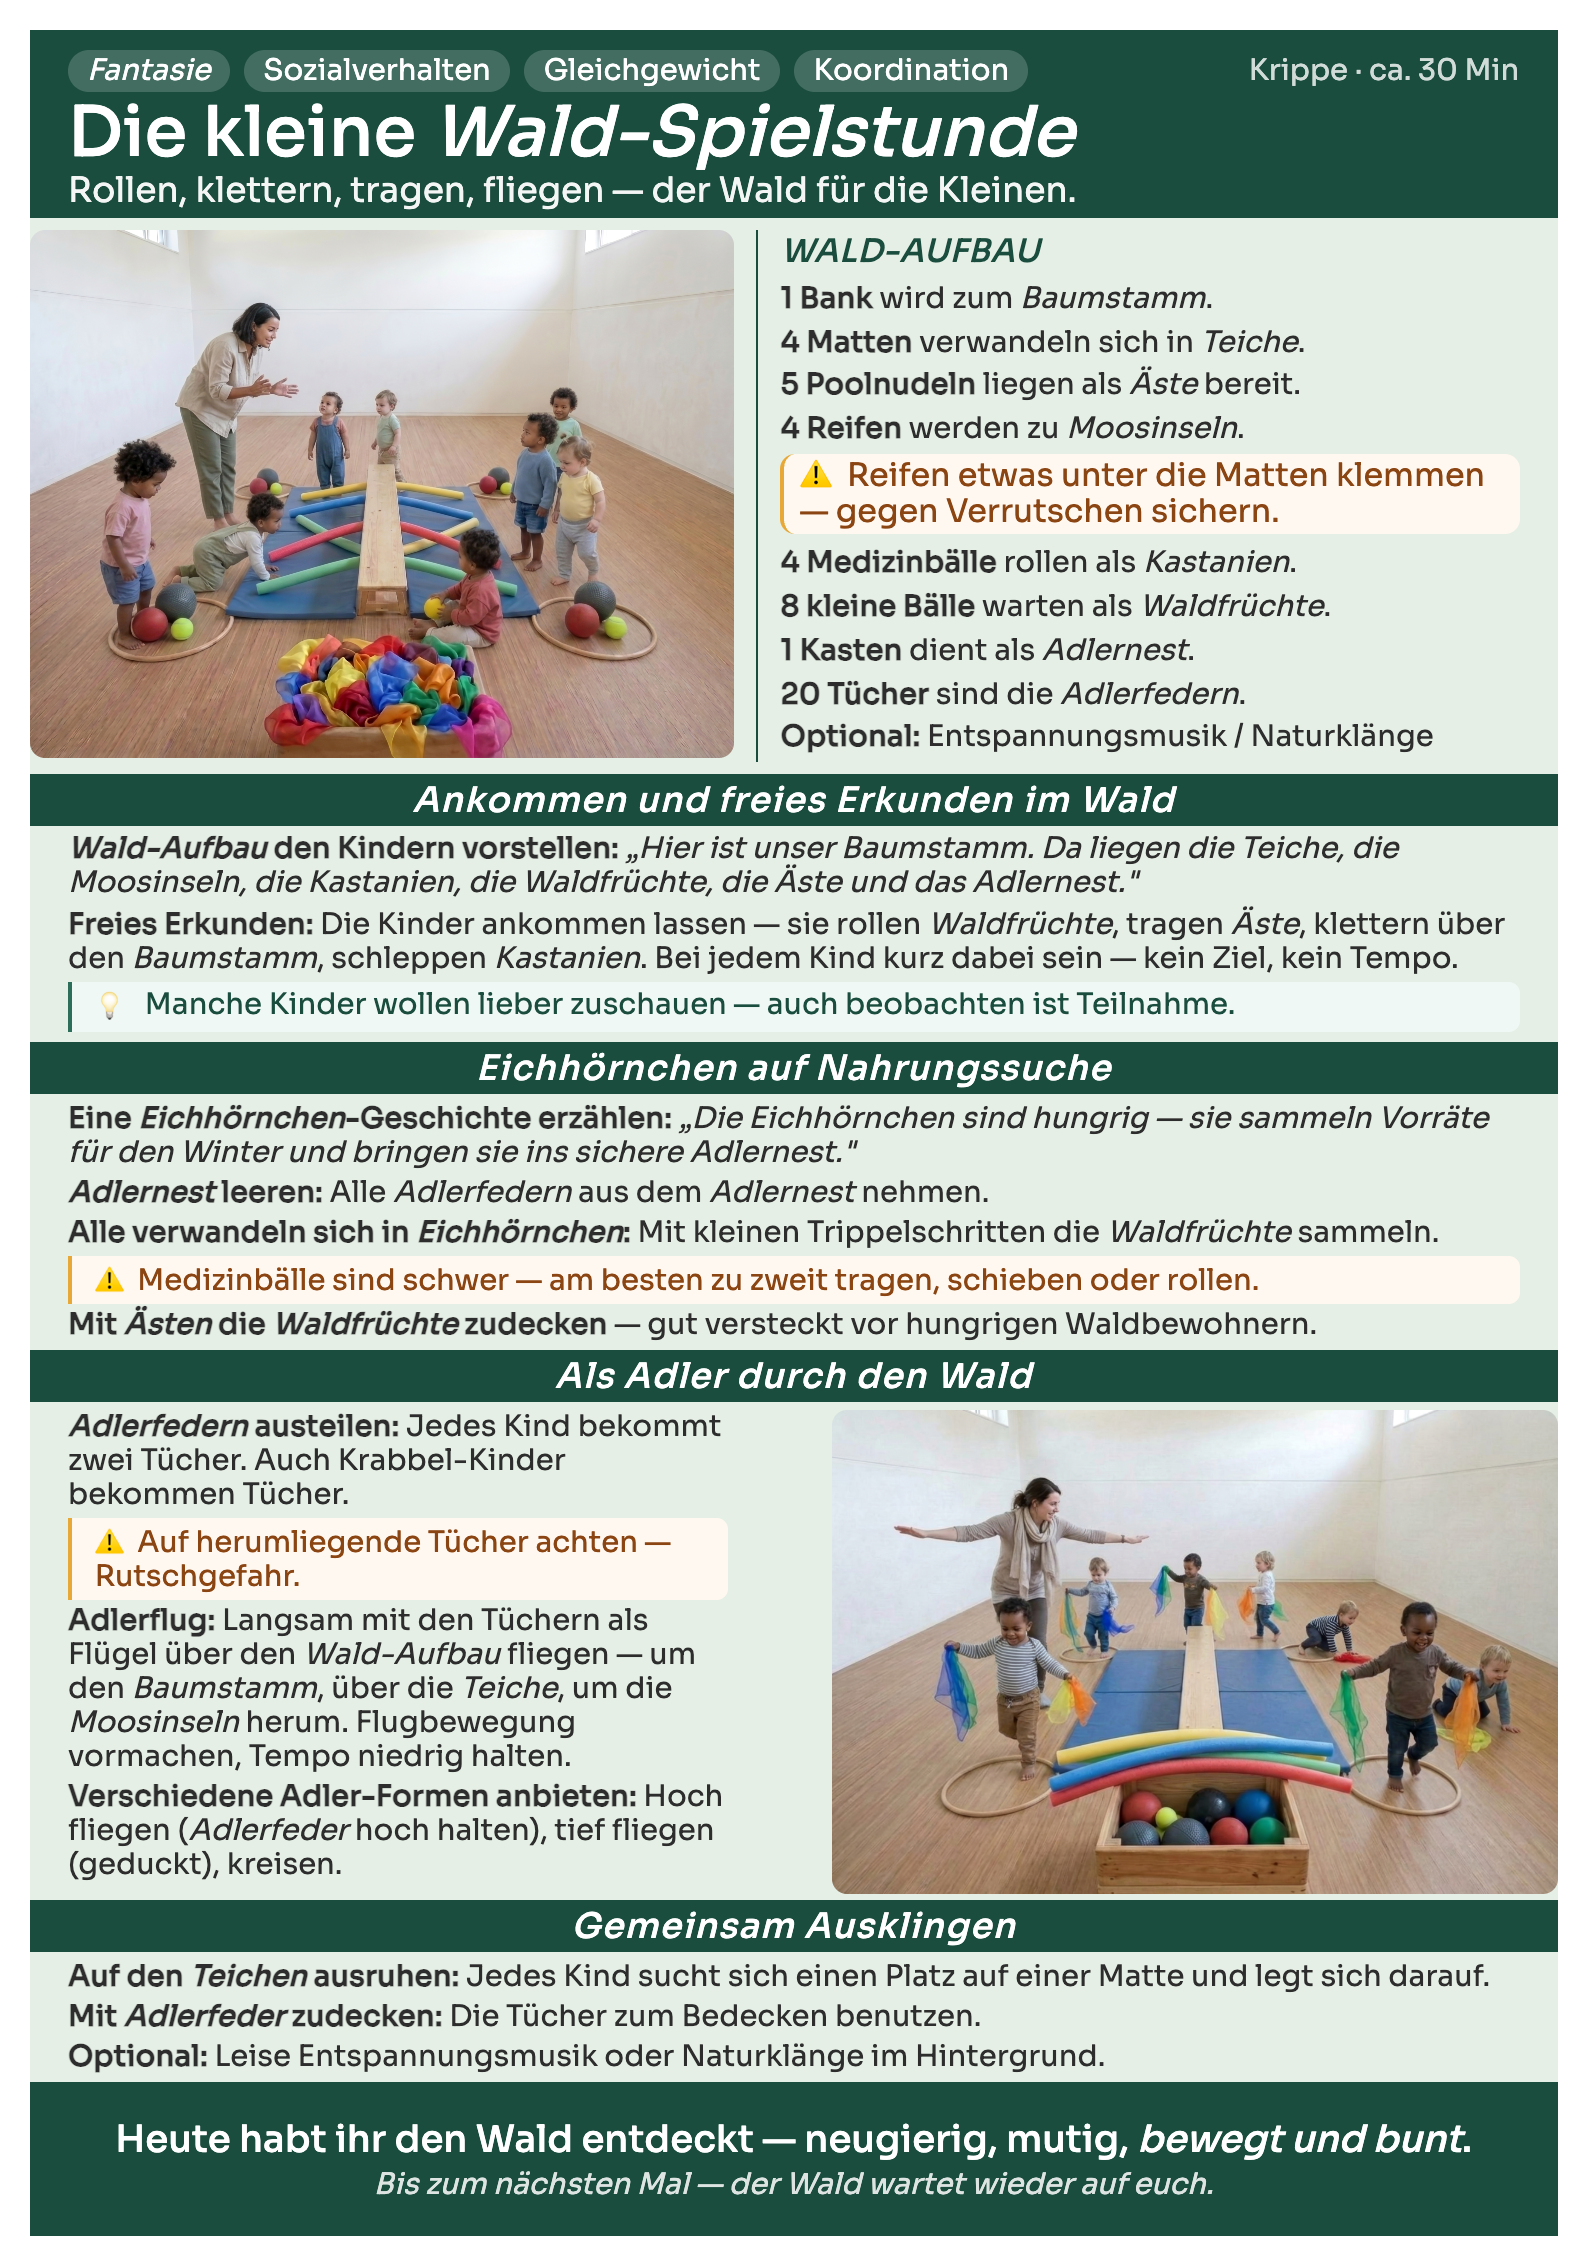
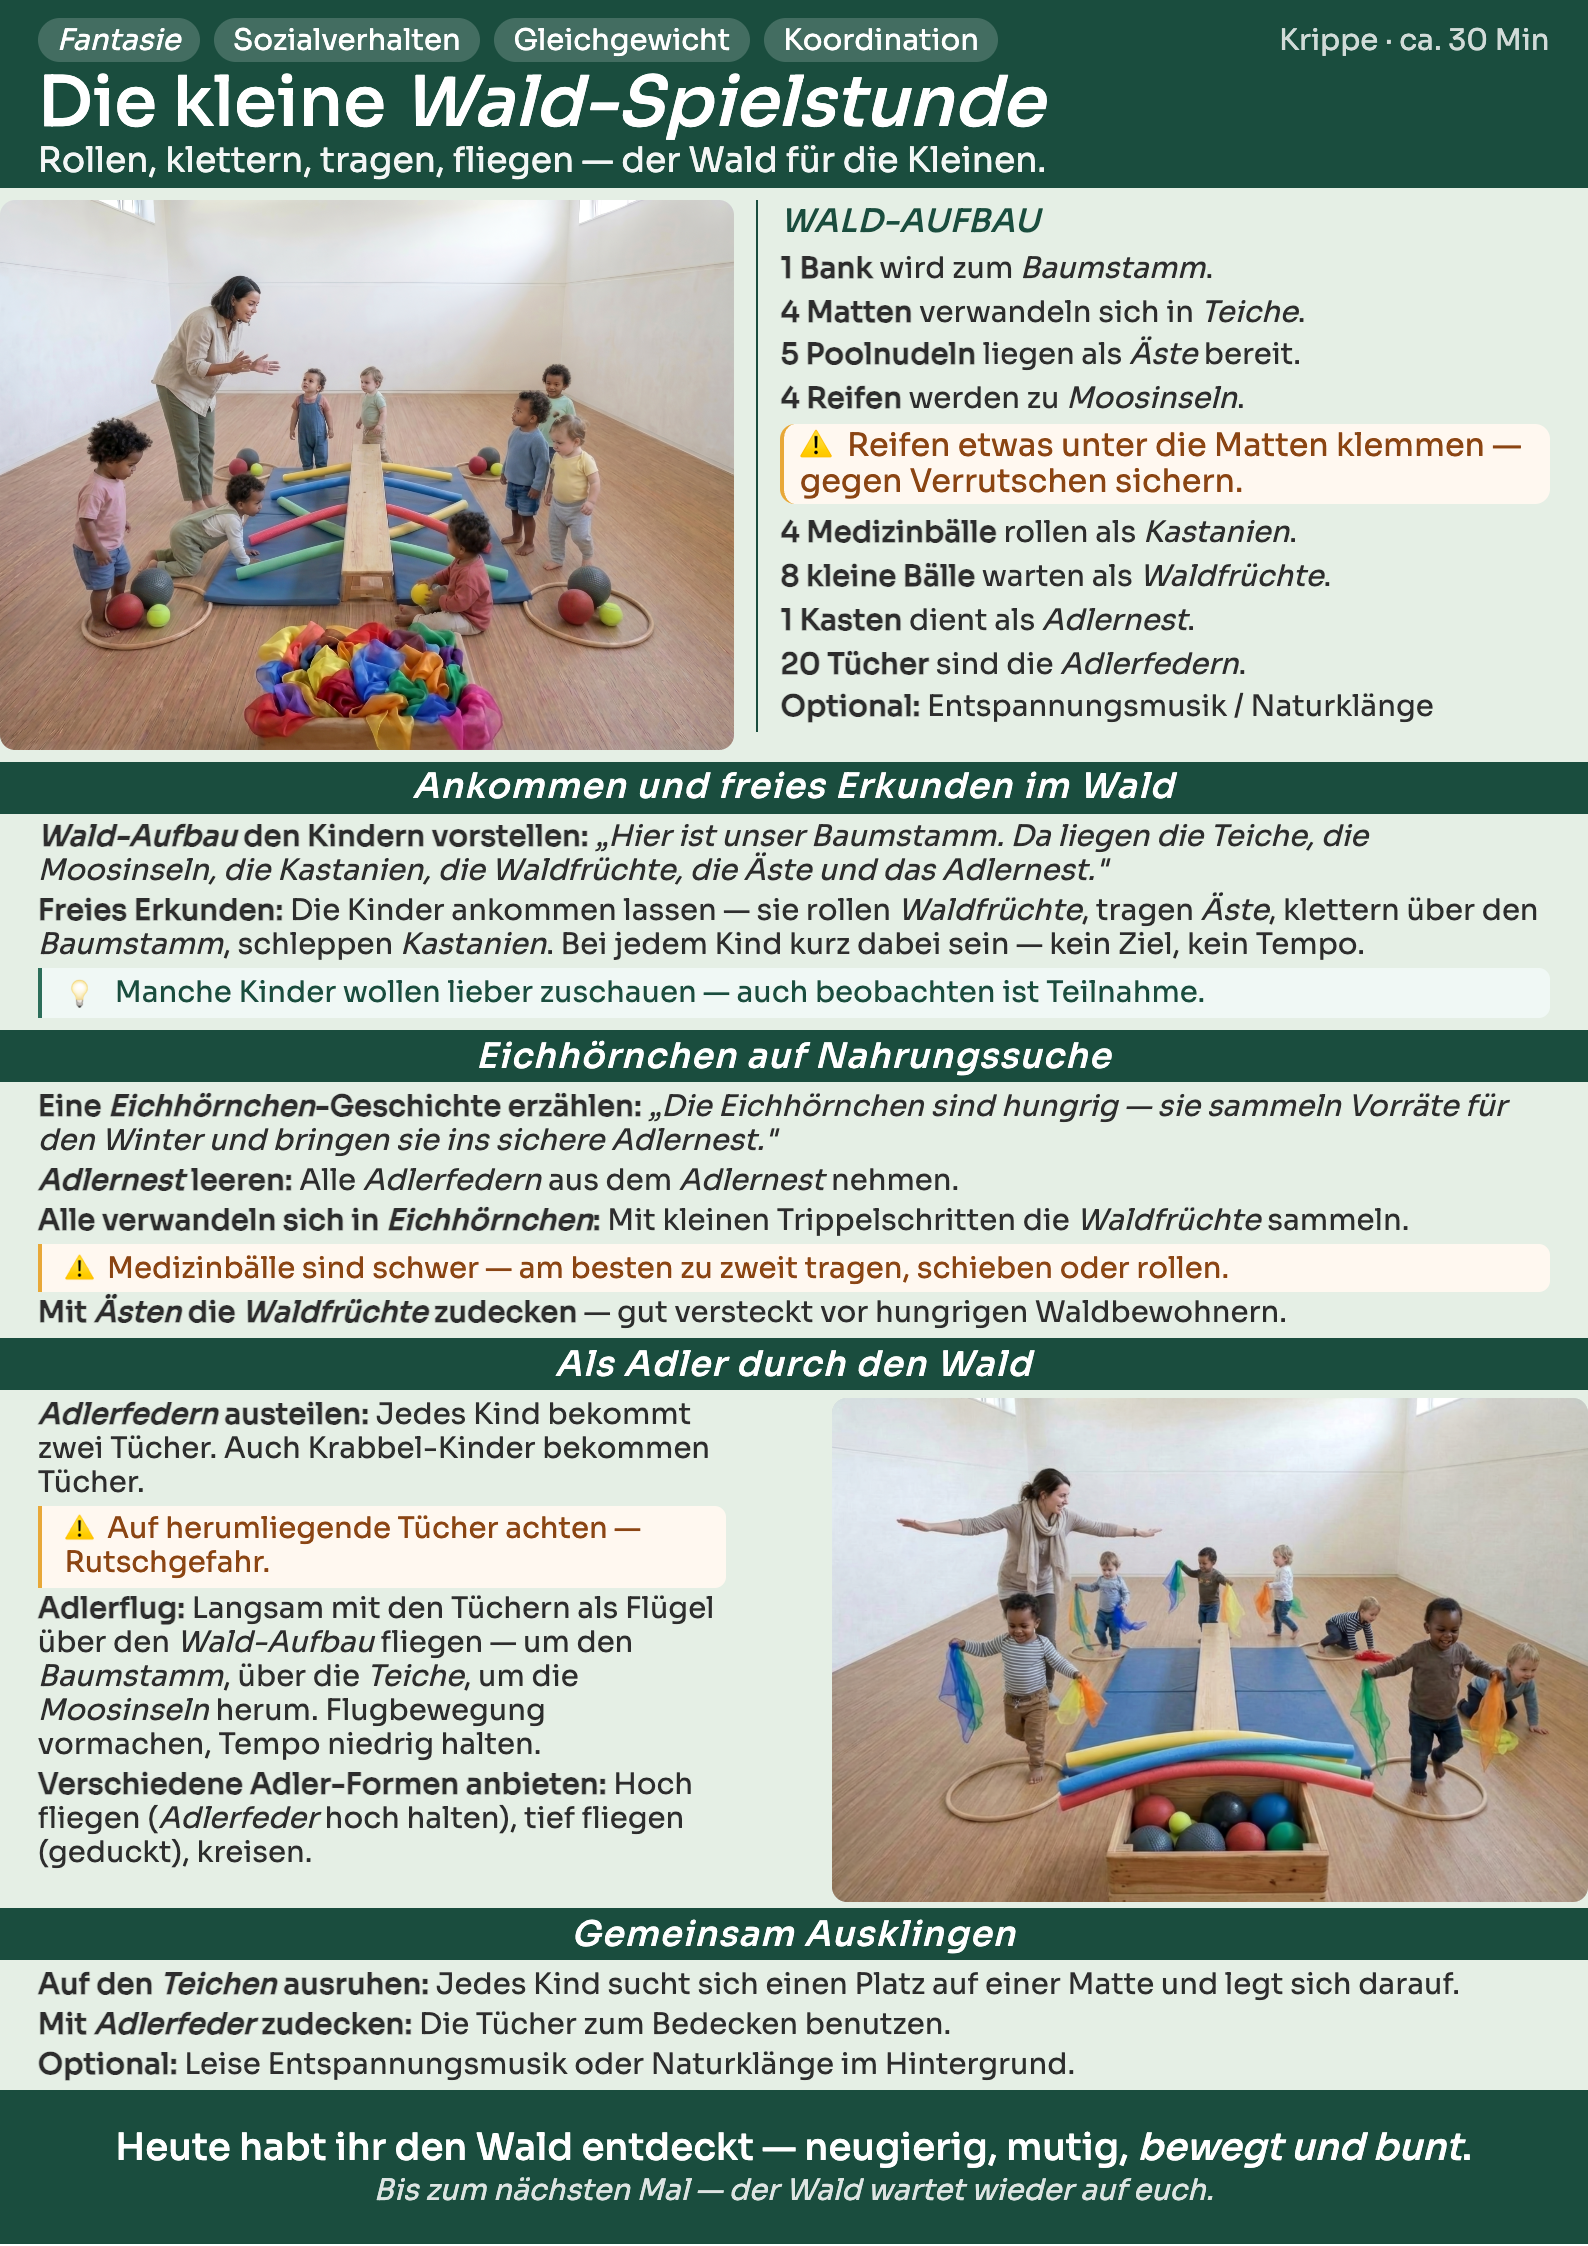
content: Fächer — Wettkampf als Deckblatt, Parcours raus, Footer sauber
Neue Reihenfolge: KiGa-Wettkampf (vorne), Krippe-Spielstunde (mittig),
KiGa-Spielstunde (hinten). Previews neu gerendert ohne weißen Rand unten.

diff --git a/index.html b/index.html
@@ -301,13 +301,13 @@
   </div>
   <div class="hero-faecher">
     <div class="faecher-card">
+      <img src="assets/handouts/wald-wettkampf-preview.png" alt="Wald-Wettkampf Handout Vorschau" width="794" height="1123" />
+    </div>
+    <div class="faecher-card">
       <img src="assets/handouts/wald-krippe-spielstunde-preview.png" alt="Wald-Krippe-Spielstunde Handout Vorschau" width="794" height="1123" />
     </div>
     <div class="faecher-card">
       <img src="assets/handouts/wald-spielstunde-preview.png" alt="Wald-Spielstunde Handout Vorschau" width="794" height="1123" />
-    </div>
-    <div class="faecher-card">
-      <img src="assets/handouts/wald-parcours-preview.png" alt="Wald-Parcours Handout Vorschau" width="794" height="1123" />
     </div>
   </div>
 </section>
